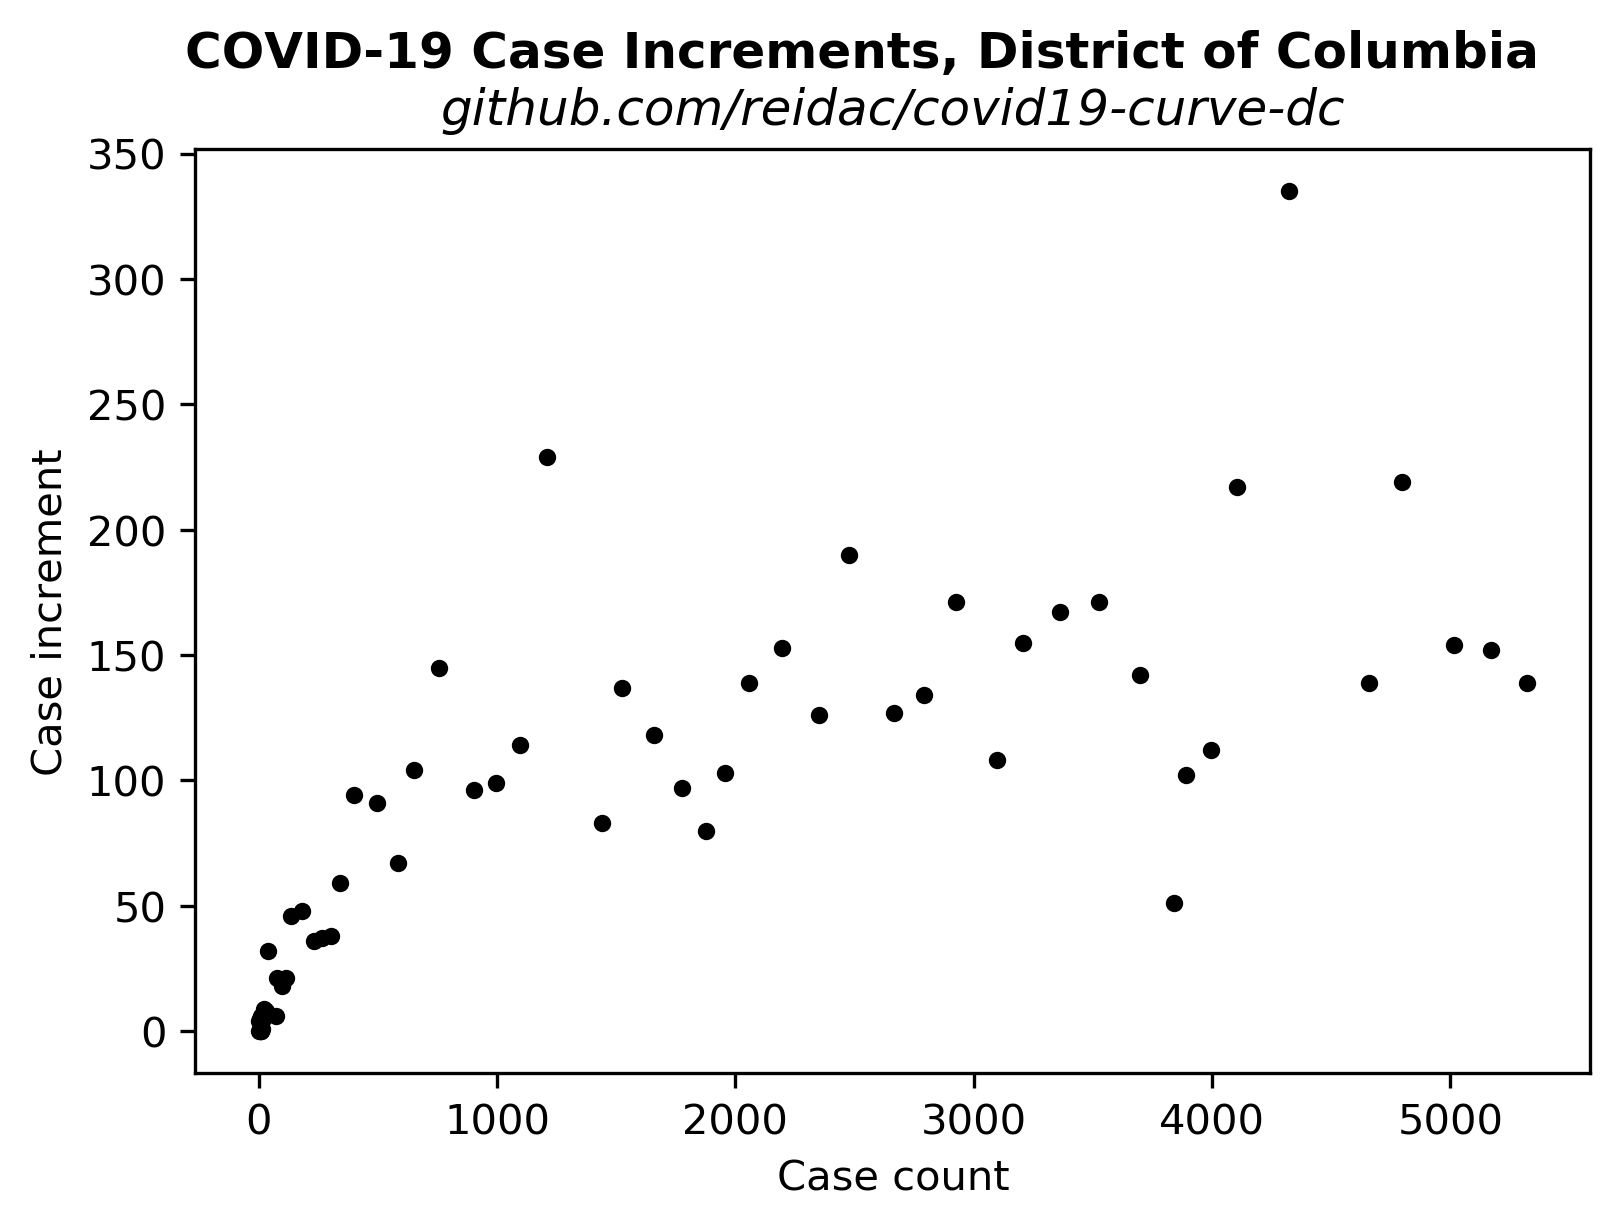
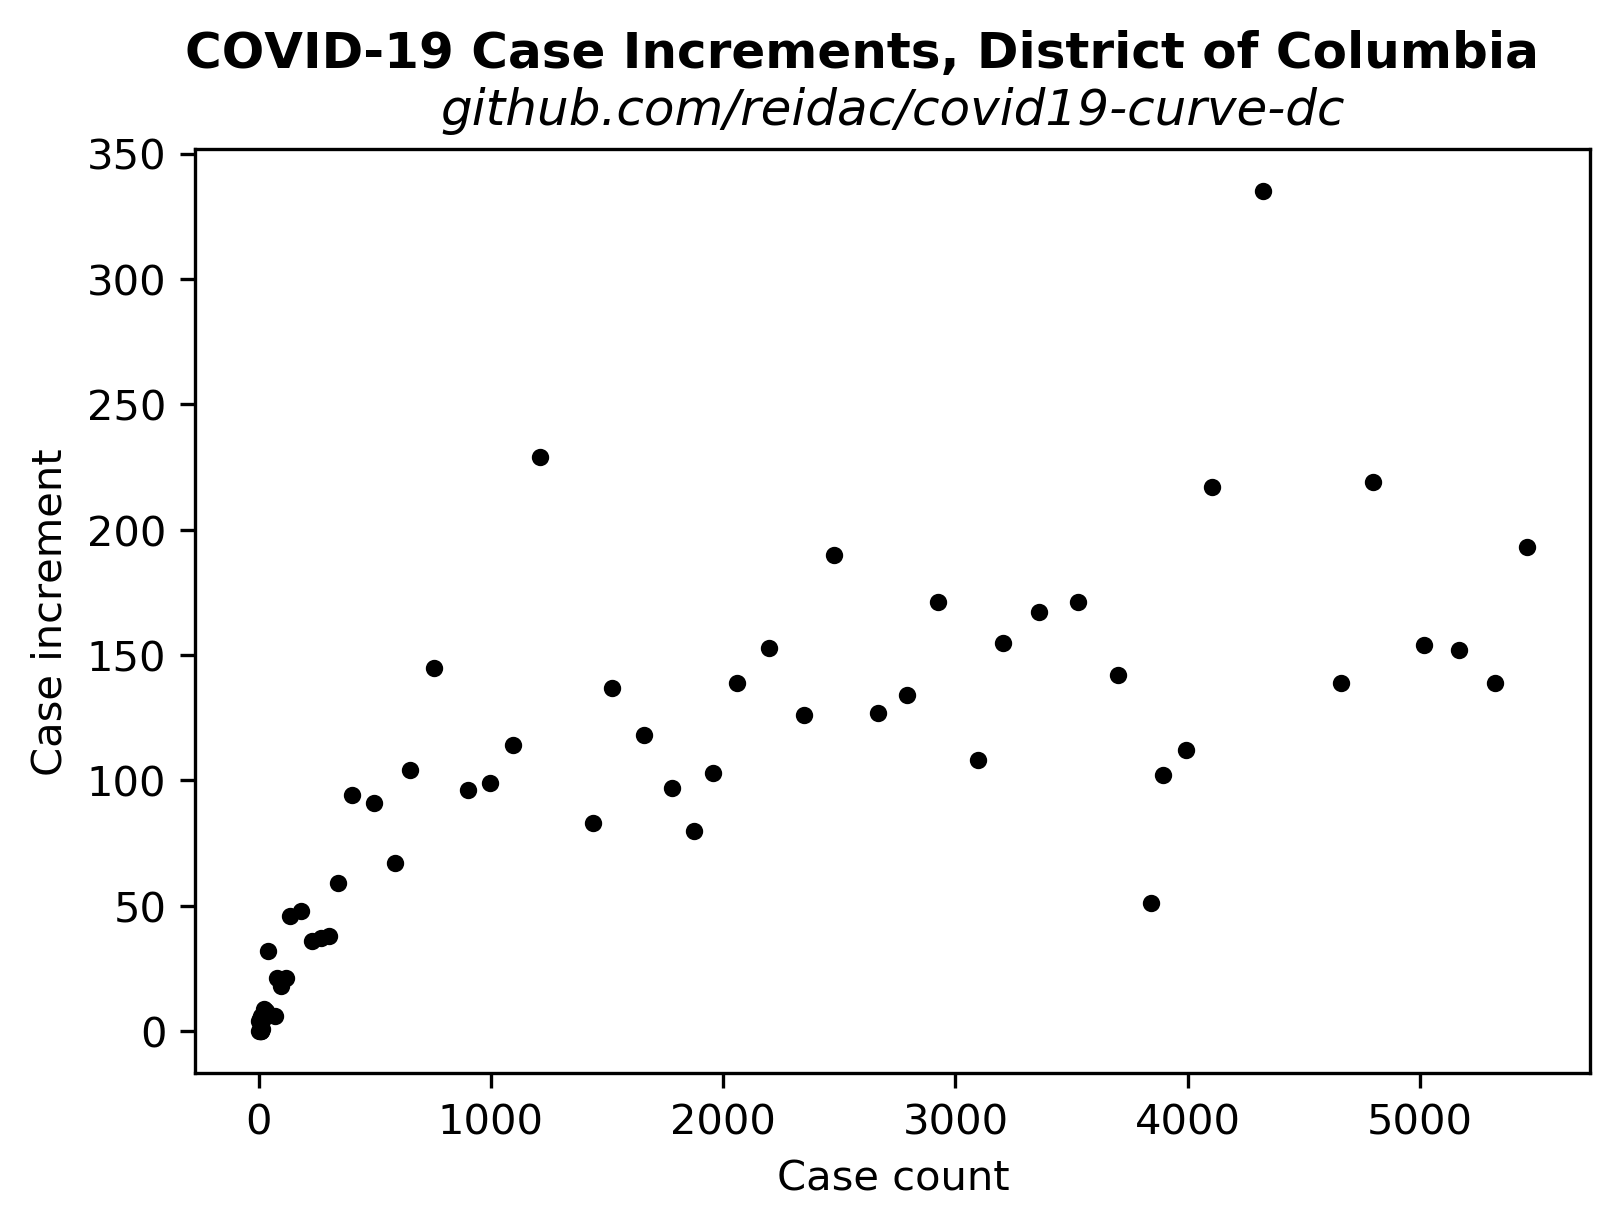
Fuller data summary.
Reworked the CaseData object to include total tests, positives,
and recoveries.  Fixed the objects which consume it to use the
new attributes.  Added code to generate a bar-chart data summary,
and added the first cut of such a summary.

diff --git a/get_dc_data.py b/get_dc_data.py
@@ -15,7 +15,9 @@ URL="https://covidtracking.com/api/v1/states/DC/daily.json"
 class CaseData:
     def __init__(self,size):
         self.x = np.zeros(size)
-        self.y = np.zeros(size)
+        self.positive = np.zeros(size)
+        self.total = np.zeros(size)
+        self.recovered = np.zeros(size)
         self.start = 0 # Ordinal of the smallest date seen.
         self.today = 0 # Ordinal of the largest date seen.
     def normalize(self): # Convert x to day-of-record and sort by date.
@@ -24,28 +26,48 @@ class CaseData:
         nx = np.subtract(self.x,self.start)
         idarr = np.argsort(nx)
         self.x = np.take_along_axis(nx,idarr,axis=0)
-        self.y = np.take_along_axis(self.y,idarr,axis=0)
+        self.positive = np.take_along_axis(self.positive,idarr,axis=0)
+        self.total = np.take_along_axis(self.total,idarr,axis=0)
+        self.recovered = np.take_along_axis(self.recovered,idarr,axis=0)
         
 
 def retrieve():
     jsn = (requests.get(url=URL)).json()
     daylist = []
-    caselist = []
+    poslist = []
+    testlist = []
+    recovlist = []
     # Step 0: Make a list of case data, and exclude days with zero cases.
     for ji in jsn:
         # print(str(ji['date']) )
         dbj = strptime(str(ji['date']),'%Y%m%d')
         daynumber = date(dbj.tm_year,dbj.tm_mon, dbj.tm_mday).toordinal()
         # print(ji['positive'])
-        casecount = int(ji['positive'])
-        if casecount>0:
+        poscount = int(ji['positive'])
+        testcount = int(ji['totalTestResults'])
+        # Recovery data is somtimes 'null', and sometimes missing.
+        try:
+            recovdatum = ji['recovered']
+        except KeyError:
+            recovcount = 0
+        else:
+            try:
+                recovcount = int(recovdatum)
+            except TypeError:
+                recovcount = 0
+        if poscount>0:
             daylist.append(daynumber)
-            caselist.append(casecount)
+            poslist.append(poscount)
+            testlist.append(testcount)
+            recovlist.append(recovcount)
     # Step 1: Make the CaseData object.
-    cd = CaseData(len(caselist))
-    for (idx,day,case) in zip(range(len(caselist)),daylist,caselist):
+    cd = CaseData(len(poslist))
+    for (idx,day,pos,test,recov) in zip(range(len(poslist)),daylist,
+                                        poslist,testlist,recovlist):
         cd.x[idx] = day
-        cd.y[idx] = case
+        cd.positive[idx] = pos
+        cd.total[idx] = test
+        cd.recovered[idx] = recov
     cd.normalize()
     return cd
         
@@ -54,5 +76,7 @@ def retrieve():
 if __name__=="__main__":
     cd = retrieve()
     print(cd.x)
-    print(cd.y)
+    print(cd.positive)
+    print(cd.total)
+    print(cd.recovered)
     print("Last date: ",date.fromordinal(cd.today))

diff --git a/bars.py b/bars.py
@@ -1,0 +1,29 @@
+import matplotlib.pyplot as plt
+import numpy as np
+import os
+
+import get_dc_data
+
+# Differential figure.
+
+casedata = get_dc_data.retrieve()
+
+f2 = plt.figure(figsize=(6,4))
+plt.suptitle("COVID-19 Data Summary, District of Columbia ",
+             fontweight="bold")
+plt.title("github.com/reidac/covid19-curve-dc", style="oblique")
+plt.xlabel("Days from onset")
+# plt.ylabel("Cases")
+
+plt.bar(casedata.x,casedata.total,bottom=casedata.positive,color='b')
+plt.bar(casedata.x,casedata.positive,bottom=casedata.recovered,color='r')
+plt.bar(casedata.x,casedata.recovered,color='g')
+
+plt.legend(labels=['Tests','Positives','Recoveries'])
+
+if "FIG_PATH" in os.environ:
+    fig_path = os.environ['FIG_PATH']
+else:
+    fig_path = "."
+
+plt.savefig("{0}/us_dc_bars.png".format(fig_path),dpi=300,bbox_inches="tight")

diff --git a/increments.py b/increments.py
@@ -15,8 +15,9 @@ plt.title("github.com/reidac/covid19-curve-dc", style="oblique")
 plt.xlabel("Case count")
 plt.ylabel("Case increment")
 
-dx = casedata.y[:-1]
-dy = np.array([casedata.y[i+1]-casedata.y[i] for i in range(len(dx))])
+dx = casedata.positive[:-1]
+dy = np.array([casedata.positive[i+1]-casedata.positive[i]
+               for i in range(len(dx))])
 
 plt.scatter(dx,dy,marker="o",s=10,color="k",zorder=10)
 

diff --git a/fitter.py b/fitter.py
@@ -23,7 +23,7 @@ def figurize(mdl,sfx,guess=None):
     # The new improved CaseData object promises us data
     # sorted in order of increasing x.
     x = casedata.x
-    y = casedata.y
+    y = casedata.positive
     
     plt.scatter(x, y, marker=".", s=10, color="k", zorder=10)
 
